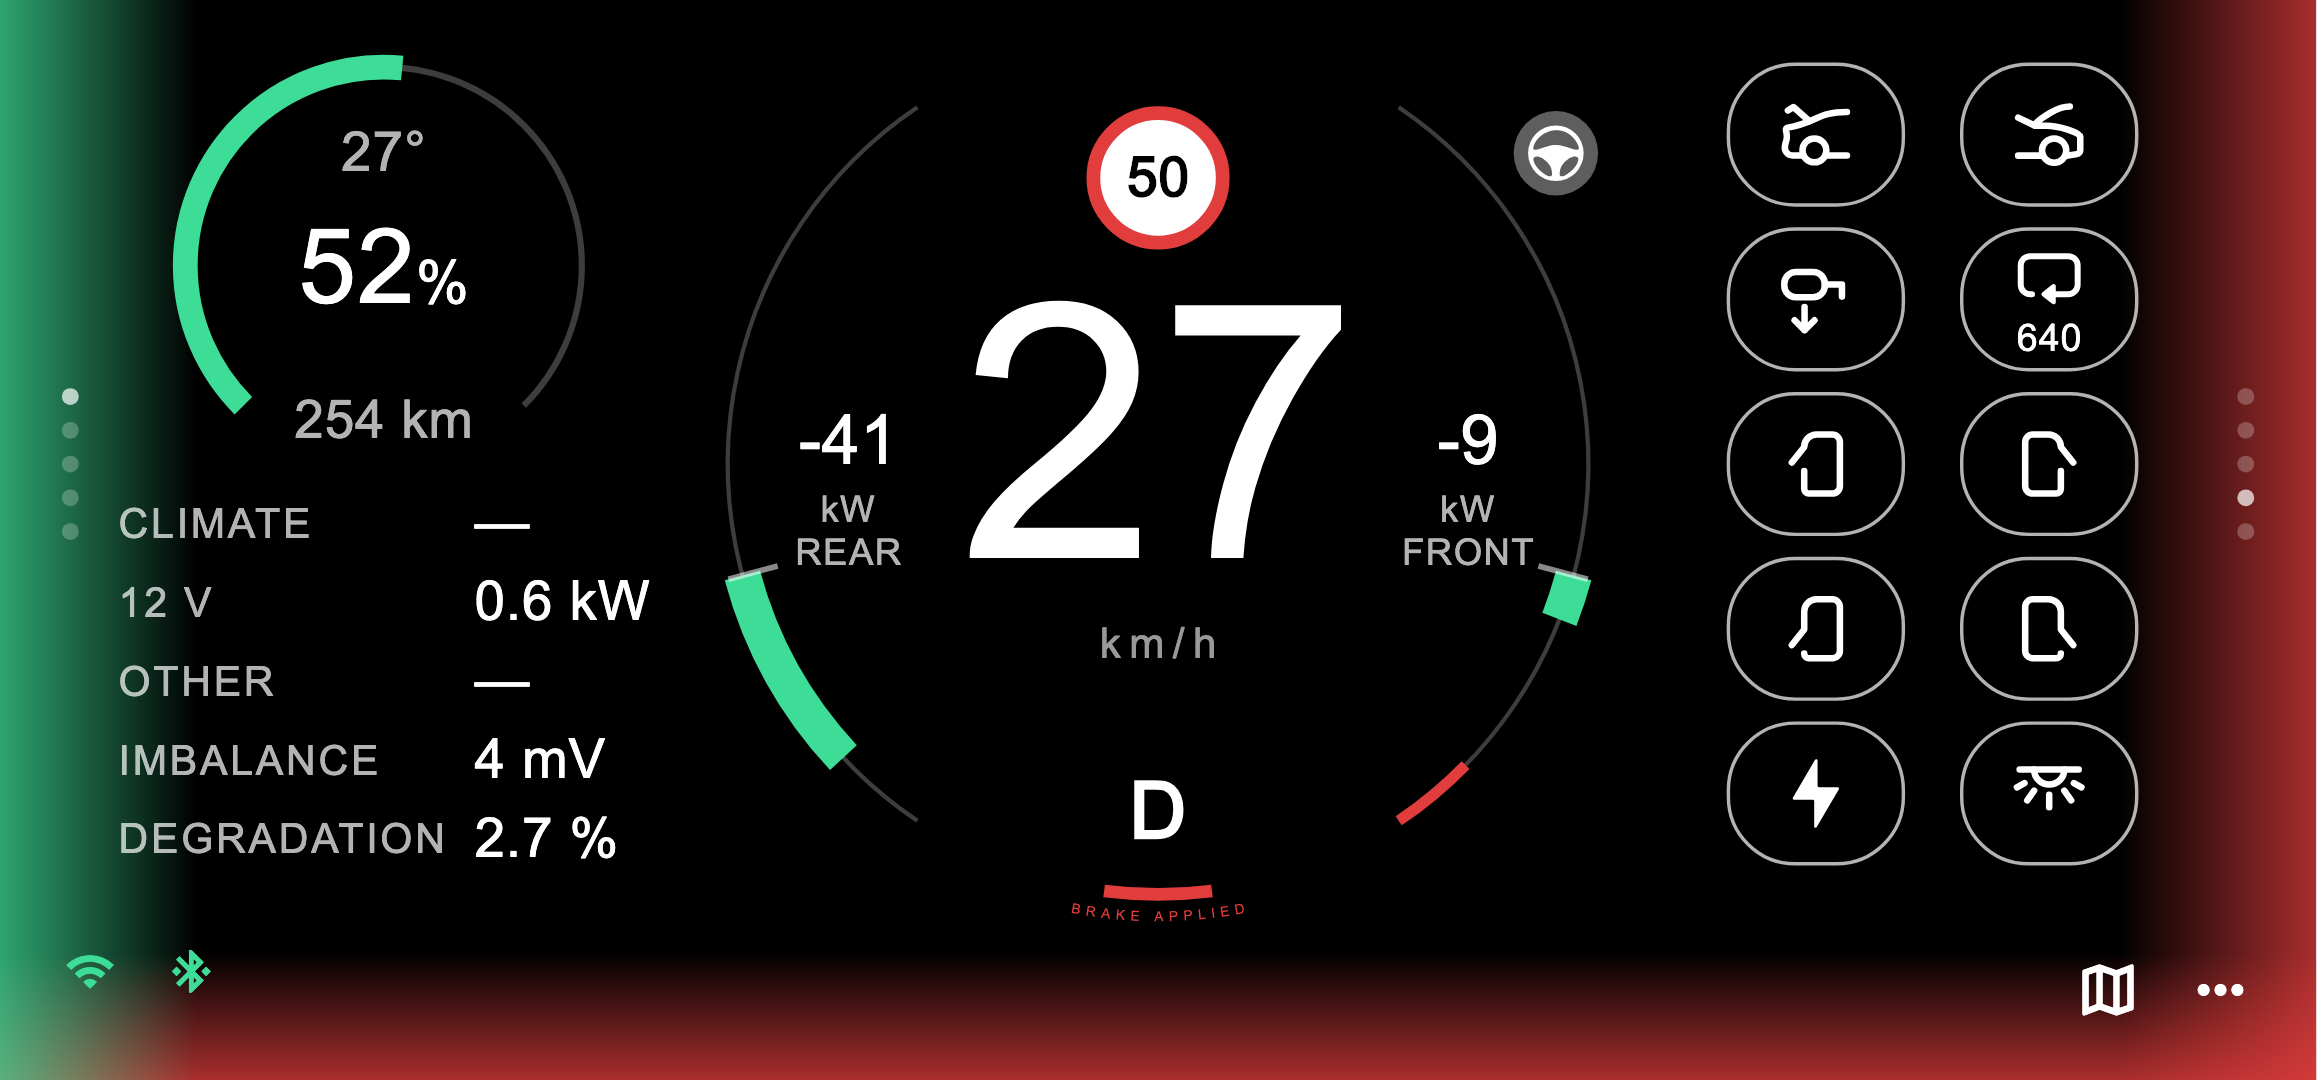
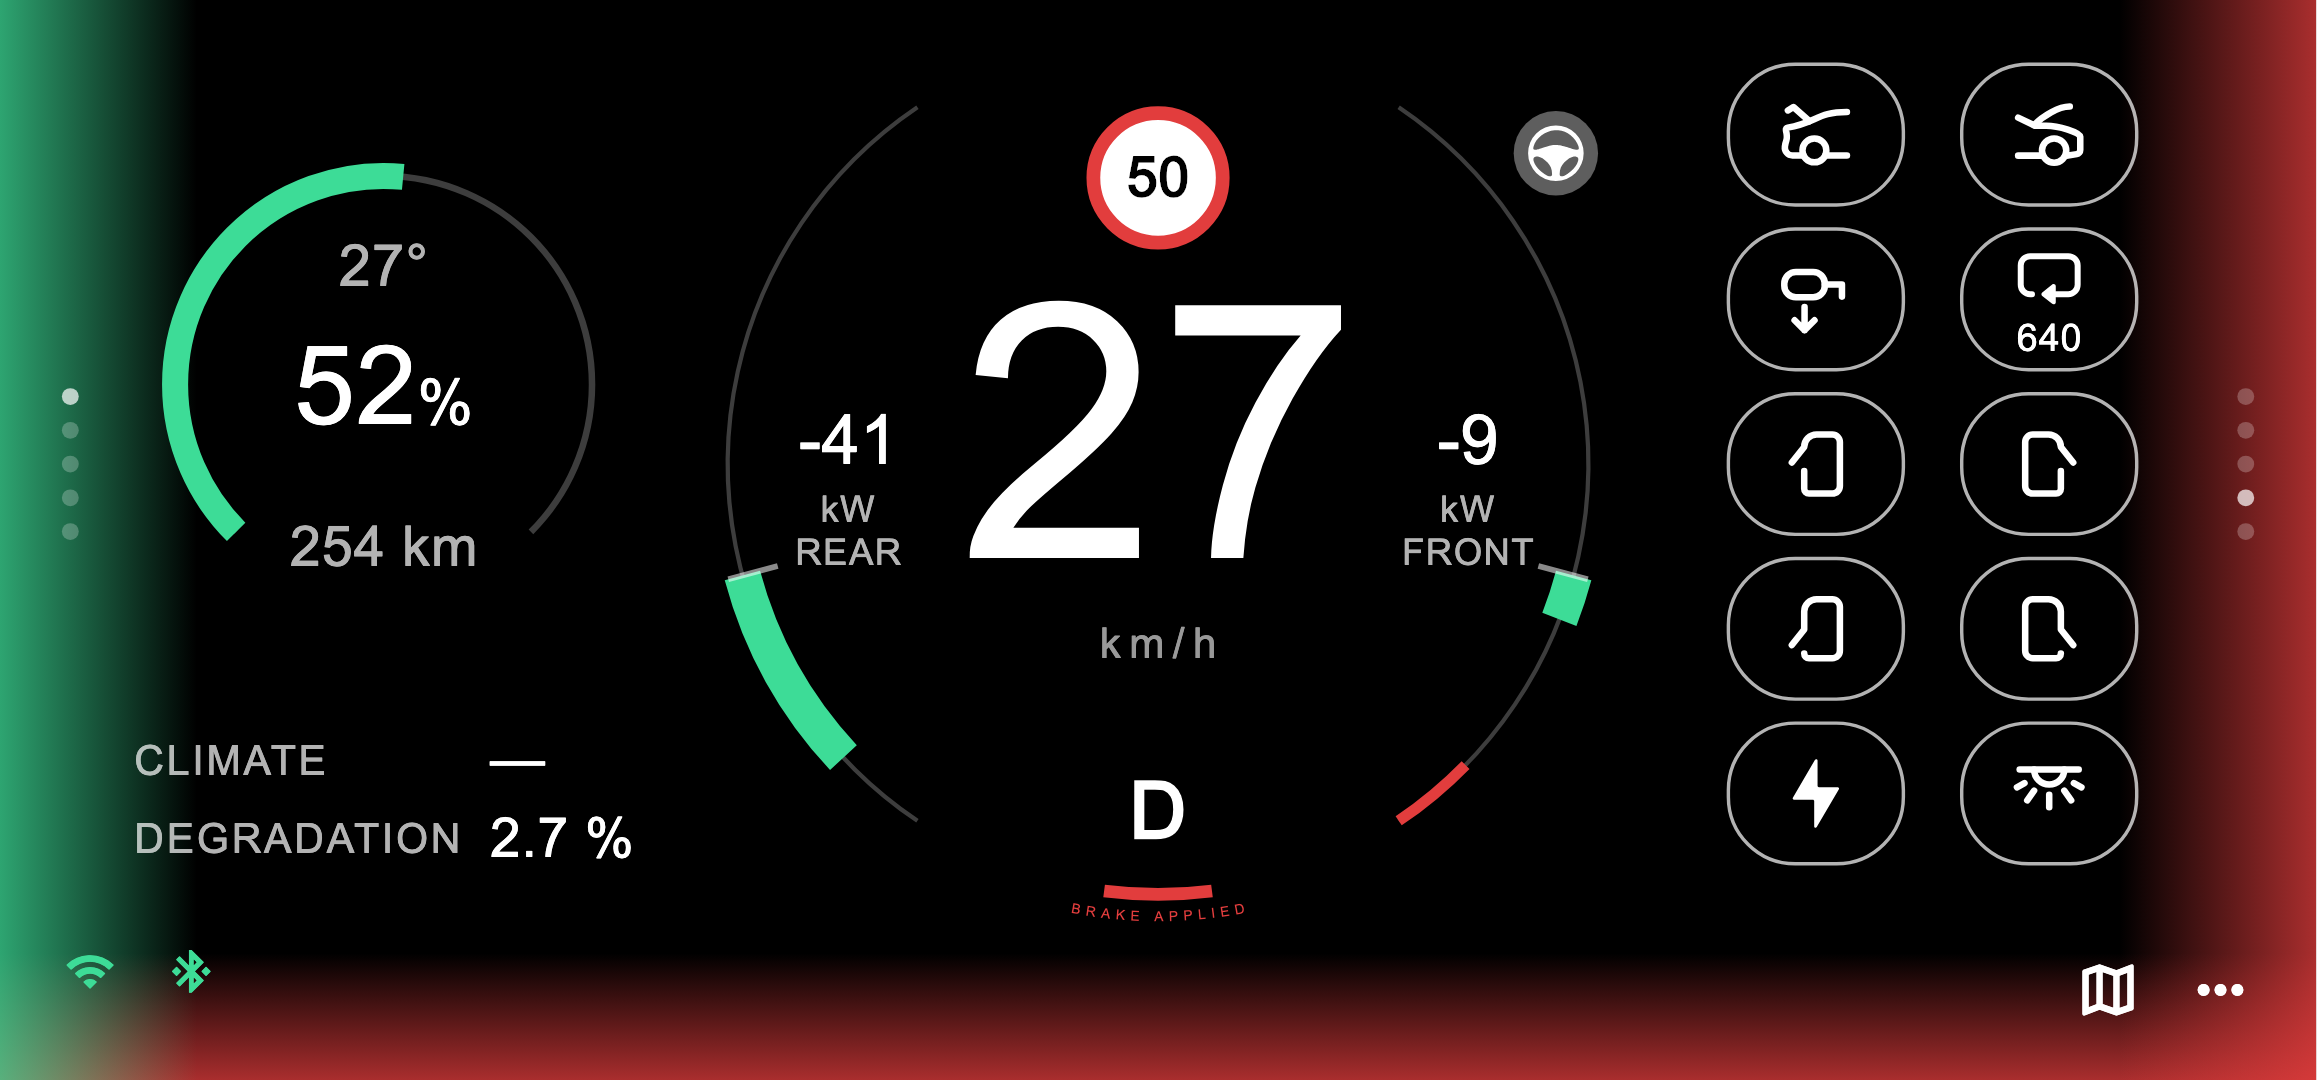
Full layout: battery, the pack's figures, then the g-meter; 12 V, other power and imbalance hidden unless switched on

diff --git a/lib/main.dart b/lib/main.dart
@@ -111,7 +111,7 @@ class _DashPageState extends State<DashPage> {
   int _settleMs = 3000, _buttonsMs = 500, _rejoinMs = 2000, _backMs = 15000;
   bool _wifiFirst = true; // Bluetooth waits for the WiFi stream, however long
   bool _smooth = false; // the power ring and pedal line glide on every change
-  bool _minor = true; // 12 V, other power and cell imbalance shown
+  bool _minor = false; // 12 V, other power and cell imbalance shown (off by default)
   late bool _basic = widget.basic; // basic layout: the ring between two stacks of big cards
   int _cardLeft = 0, _cardRight = 3; // the card each side shows: energy, the buttons
   bool _sparse = true; // slow ids polled rather than streamed (see Panda.sparse)
@@ -1134,33 +1134,28 @@ class _DashPageState extends State<DashPage> {
                           ),
                         ),
                         _ring(o, outside: true),
-                        // The g-meter and the pack's figures pinned top and
-                        // bottom, the battery dial large between them. The g-meter's
-                        // top is level with the first button's, its place kept
-                        // while it has nothing to say (parked it only reads 0;
-                        // no WiFi, no reading), so the dial does not jump.
+                        // The battery dial and the g-meter pinned top and
+                        // bottom, the pack's figures between them: the dial's
+                        // top level with the first button's; the g-meter's
+                        // place kept while it has nothing to say (parked it
+                        // only reads 0; no WiFi, no reading), so the figures
+                        // do not jump. Charging, the charge over the figures.
                         Expanded(child: Column(children: [
+                          Padding(padding: const EdgeInsets.fromLTRB(8, 14, 8, 0), child: _Battery(obd: o, width: 128)),
+                          Expanded(child: _SideColumn(children: [
+                            if (o.wifiLive && o.charging) _Charge(obd: o),
+                            // What the pack feeds besides the motors (WiFi),
+                            // and its health; the air outside is by the ring.
+                            Column(crossAxisAlignment: CrossAxisAlignment.start, mainAxisSize: MainAxisSize.min, children: [
+                              if (o.wifiLive && o.otherKw != null) _Draws(obd: o, minor: _minor),
+                              _Pack(obd: o, outside: false, minor: _minor),
+                            ]),
+                          ])),
                           Padding(
-                            padding: const EdgeInsets.fromLTRB(8, 14, 8, 0),
+                            padding: const EdgeInsets.fromLTRB(8, 0, 8, 4),
                             child: Visibility.maintain(
                               visible: o.wifiLive && !o.charging && o.gear != 'P' && (o.gLong != null || o.gLat != null),
                               child: ListenableBuilder(listenable: o.fast, builder: (context, _) => _GBall(obd: o)),
-                            ),
-                          ),
-                          Expanded(child: _SideColumn(children: [
-                            _Battery(obd: o, width: 128),
-                            if (o.wifiLive && o.charging) _Charge(obd: o),
-                          ])),
-                          // What the pack feeds besides the motors (WiFi), and
-                          // its health; the air outside is by the ring.
-                          Padding(
-                            padding: const EdgeInsets.only(bottom: 4),
-                            child: FittedBox(
-                              fit: BoxFit.scaleDown,
-                              child: Column(crossAxisAlignment: CrossAxisAlignment.start, mainAxisSize: MainAxisSize.min, children: [
-                                if (o.wifiLive && o.otherKw != null) _Draws(obd: o, minor: _minor),
-                                _Pack(obd: o, outside: false, minor: _minor),
-                              ]),
                             ),
                           ),
                         ])),

diff --git a/test/dash_shot_test.dart b/test/dash_shot_test.dart
@@ -353,12 +353,14 @@ void main() {
     }
 
     final left = find.byType(PageView).first, right = find.byType(PageView).last;
-    // First cards: energy left (the 12 V draw, the pack's health), the
-    // buttons right; no route in the bar.
+    // First cards: energy left (climate and the pack's health; 12 V, other
+    // power and imbalance only when switched on), the buttons right; no route
+    // in the bar.
     expect(find.byType(PageView), findsNWidgets(2));
     expect(find.text('CLIMATE'), findsOneWidget);
-    expect(find.text('0.6 kW'), findsOneWidget);
-    expect(find.text('IMBALANCE'), findsOneWidget);
+    expect(find.text('DEGRADATION'), findsOneWidget);
+    expect(find.text('12 V'), findsNothing);
+    expect(find.text('IMBALANCE'), findsNothing);
     expect(find.text('Central Market'), findsNothing);
     expect(o.skip, basicSkip(0, 3)); // only what the ring and these two cards read
     // The assist state at the ring's top right, whichever cards show.
@@ -394,9 +396,9 @@ void main() {
   // The assist state as the car's wheel on a disc at the ring's top right:
   // grey ready, blue steering, flashing amber for the hands-on nag (the wheel
   // dark on it), red and still once Autopilot is locked out. The air outside
-  // at the ring's bottom left; the right column reads g-meter, battery, then
-  // the pack's figures.
-  testWidgets('full layout: the Autopilot icon and the air outside by the ring, g-meter over the battery', (t) async {
+  // at the ring's bottom left; the right column reads battery, the pack's
+  // figures, then the g-meter.
+  testWidgets('full layout: the Autopilot icon and the air outside by the ring, the g-meter under the figures', (t) async {
     t.view
       ..physicalSize = const Size(823, 384)
       ..devicePixelRatio = 1;
@@ -429,9 +431,12 @@ void main() {
     expect(t.getSize(find.byTooltip('AP READY')), const Size(30, 30));
     expect((icon - ring.center).distance - 15, greaterThan(r));
     expect((t.getRect(find.text('OUTSIDE')).topRight - ring.center).distance, greaterThan(r));
-    // The g-meter over the battery dial, the pack's figures under it.
-    expect(t.getCenter(find.textContaining('PEAK')).dy, lessThan(t.getCenter(find.text('64%', findRichText: true)).dy));
-    expect(t.getCenter(find.text('IMBALANCE')).dy, greaterThan(t.getCenter(find.text('64%', findRichText: true)).dy));
+    // The battery dial on top, the pack's figures under it, the g-meter
+    // under them.
+    final dial = t.getCenter(find.text('64%', findRichText: true)).dy;
+    final figures = t.getCenter(find.text('DEGRADATION')).dy;
+    expect(dial, lessThan(figures));
+    expect(figures, lessThan(t.getCenter(find.textContaining('PEAK')).dy));
     o
       ..autopilot = 'AUTOPILOT'
       ..notifyListeners();

diff --git a/test/fit_test.dart b/test/fit_test.dart
@@ -217,17 +217,17 @@ void main() {
     await _frames(t);
     expect(t.widget<Switch>(smooth).value, isTrue);
     expect(prefs.getBool('smoothRing'), isTrue);
-    // 12 V, other power and the cell imbalance: shown unless switched off,
-    // kept, and gone from the dash at once.
+    // 12 V, other power and the cell imbalance: hidden unless switched on,
+    // kept, and on the dash at once.
     final minor = find.byType(Switch).at(3);
-    expect(t.widget<Switch>(minor).value, isTrue);
-    expect(find.text('IMBALANCE'), findsOneWidget);
+    expect(t.widget<Switch>(minor).value, isFalse);
+    expect(find.text('IMBALANCE'), findsNothing);
+    expect(find.text('DEGRADATION'), findsOneWidget);
     await t.ensureVisible(minor);
     await t.tap(minor);
     await _frames(t);
-    expect(prefs.getBool('minorFigures'), isFalse);
-    expect(find.text('IMBALANCE'), findsNothing);
-    expect(find.text('DEGRADATION'), findsOneWidget);
+    expect(prefs.getBool('minorFigures'), isTrue);
+    expect(find.text('IMBALANCE'), findsOneWidget);
     // Sparse polling: on unless switched off, kept, and told to the link.
     final sparse = find.byType(Switch).last;
     expect(t.widget<Switch>(sparse).value, isTrue);

diff --git a/README.md b/README.md
@@ -29,9 +29,10 @@ It shows:
   the indicators in amber), and grip, each only while on: the car's
   slippery-road verdict and traction or stability control stepping in
   (both while moving), Slip Start left on;
-- the outside temperature (ice blue near freezing), washer fluid low, cell
-  imbalance and degradation; the pack's coldest cells and whether it is
-  heating over the battery %;
+- the outside temperature (ice blue near freezing), washer fluid low, the
+  climate's power draw and degradation; the pack's coldest cells and whether
+  it is heating over the battery % (a settings switch adds 12 V and other
+  power and the cell imbalance);
 - the route along the bottom: time to go and arrival time, the energy
   and range it uses, and battery and range at arrival (plus its length and
   the destination when the Commander has them);
